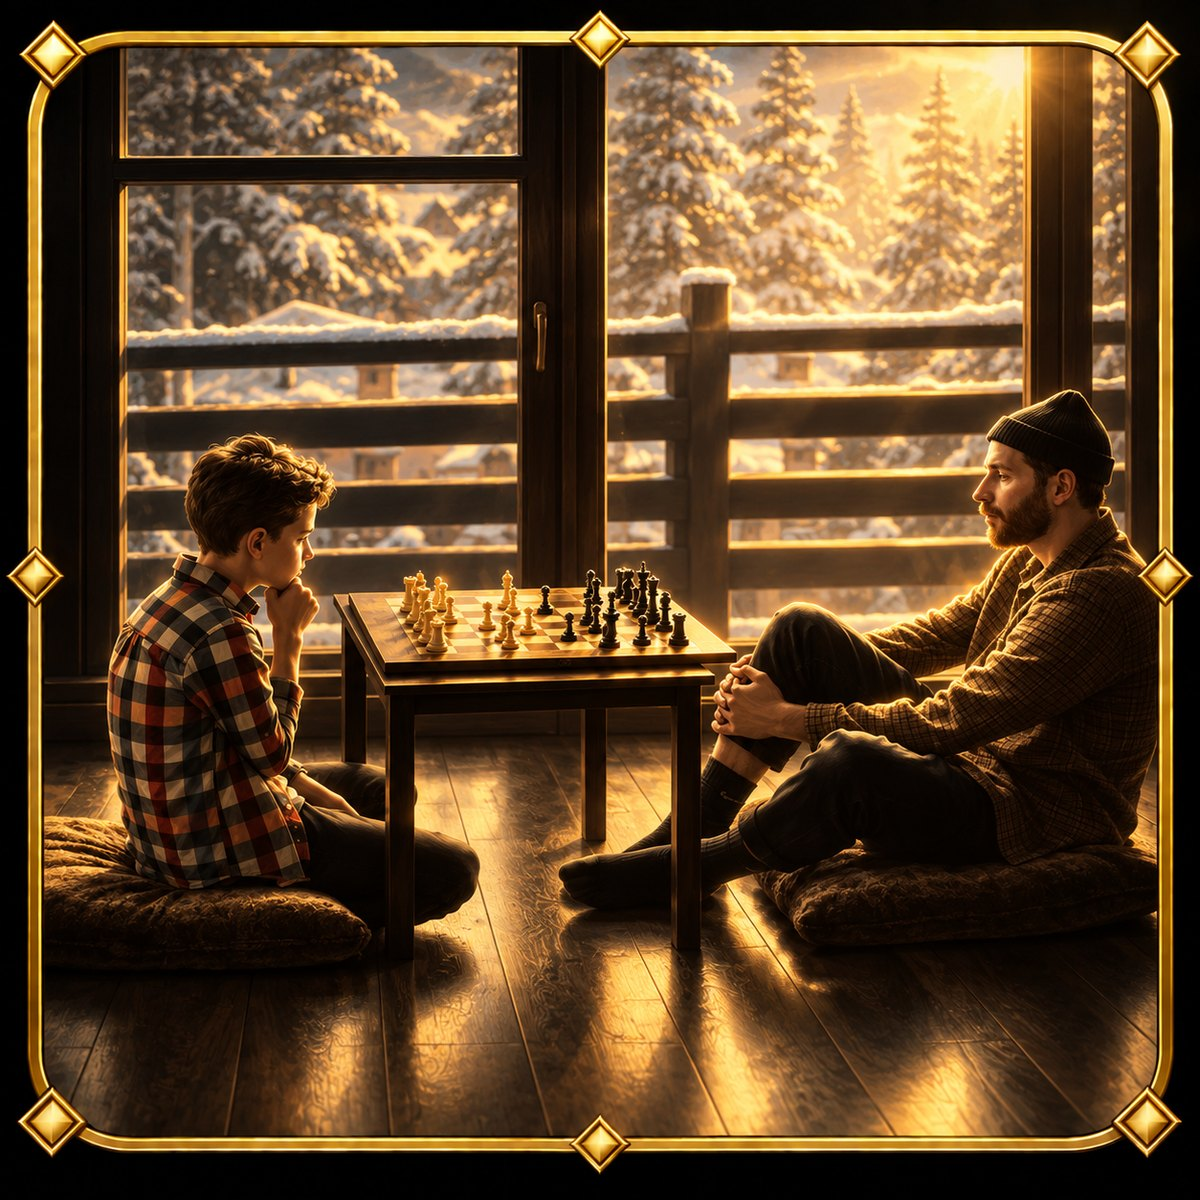
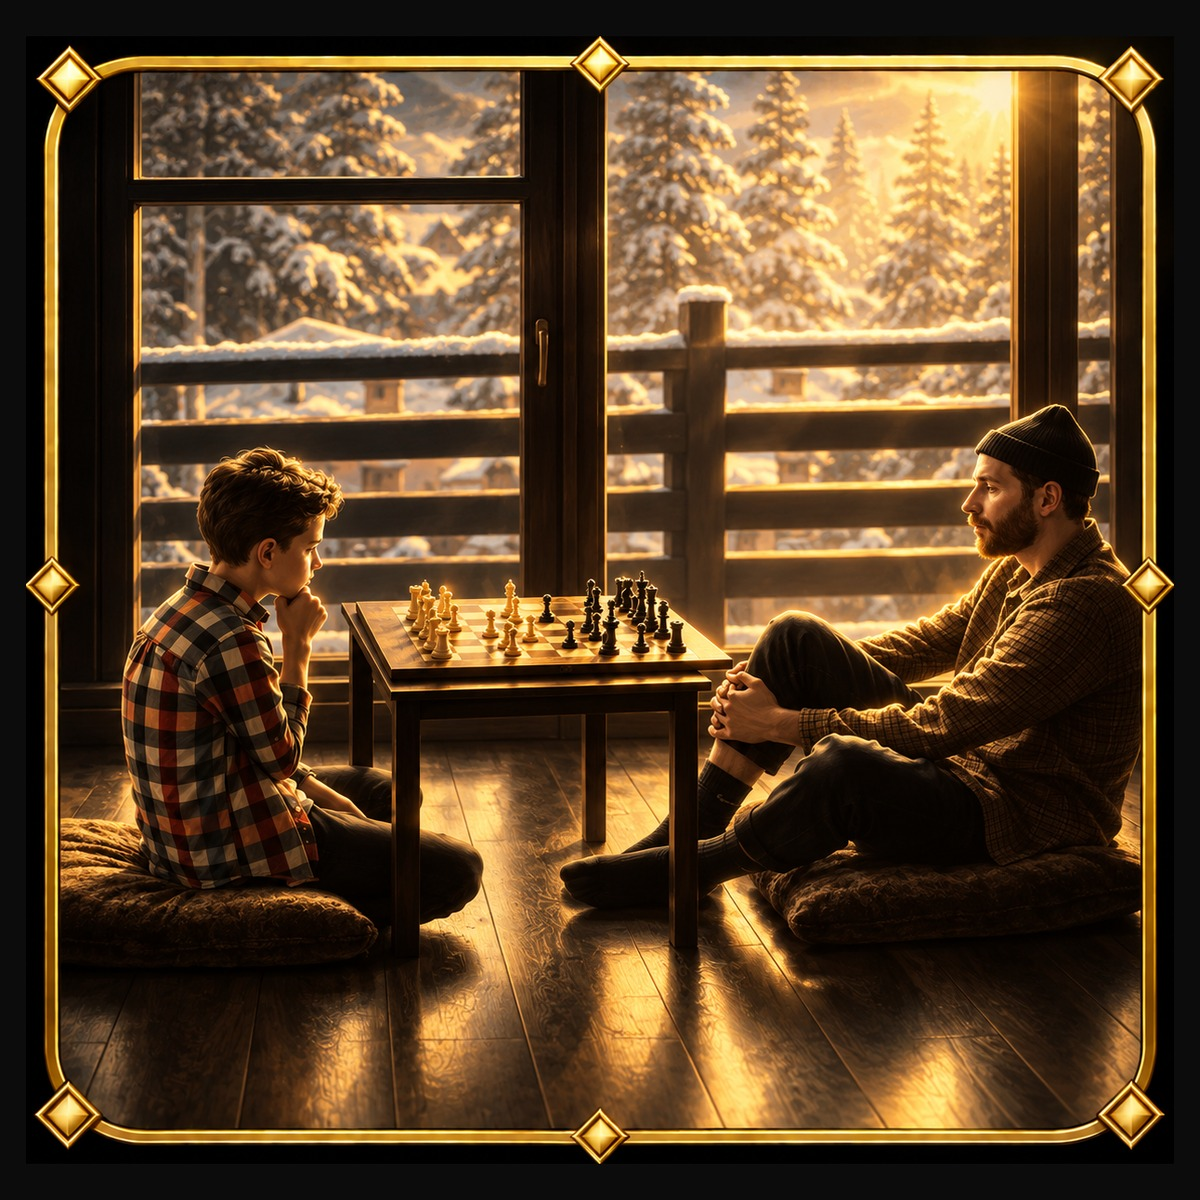
emblemele: rama aurie devine conturul imaginii
Se vedea unde se termină poza: marginea ei era negru pur, pagina e #0A0A0A
într-un loc şi #0C0C0C în celălalt, iar cardul mai punea peste un chenar gri,
colţuri rotunjite şi o umbră. Ieşea un pătrat în jurul emblemei.

Acum fiecare imagine e tăiată fix pe conturul ramei — inclusiv romburile din
colţuri, care ies mai în afară decât laturile — şi reaşezată cu o bandă
simetrică de jur împrejur, în exact culoarea secţiunii din spatele ei. Marginea
era şi strâmbă: 11 pixeli sus faţă de 33 în stânga; acum e la fel pe toate
laturile.

Banda e lată de 26 de pixeli, nu doar cât să acopere: lângă aurul strălucitor,
compresia JPEG lăsa un halou de până la 21 de trepte, care se vedea pe negru.
De la distanţa asta, cei 28.656 de pixeli de margine ies toţi exact culoarea
paginii, măsurat.

Chenarul, rotunjirea şi umbra cardului au ieşit: erau singurele care mai
desenau un dreptunghi.

diff --git a/src/pages/SalesPage.tsx b/src/pages/SalesPage.tsx
@@ -280,7 +280,7 @@ export function SalesPage() {
               src={problemImg}
               alt="Emblemă aurie: un rege negru căzut lângă un rege alb rămas în picioare — momentul deciziei"
               overlay="none"
-              className="aspect-square w-full rounded-2xl border border-[#2A2A2A] shadow-[var(--shadow-card)]"
+              className="aspect-square w-full"
             />
           </motion.div>
         </div>
@@ -390,7 +390,7 @@ export function SalesPage() {
               src={parentsImg}
               alt="Emblemă aurie: un tată și un copil jucând șah pe jos, lângă o fereastră cu zăpadă afară"
               overlay="none"
-              className="aspect-square w-full rounded-2xl border border-[#2A2A2A] shadow-[var(--shadow-card)]"
+              className="aspect-square w-full"
             />
           </motion.div>
 
